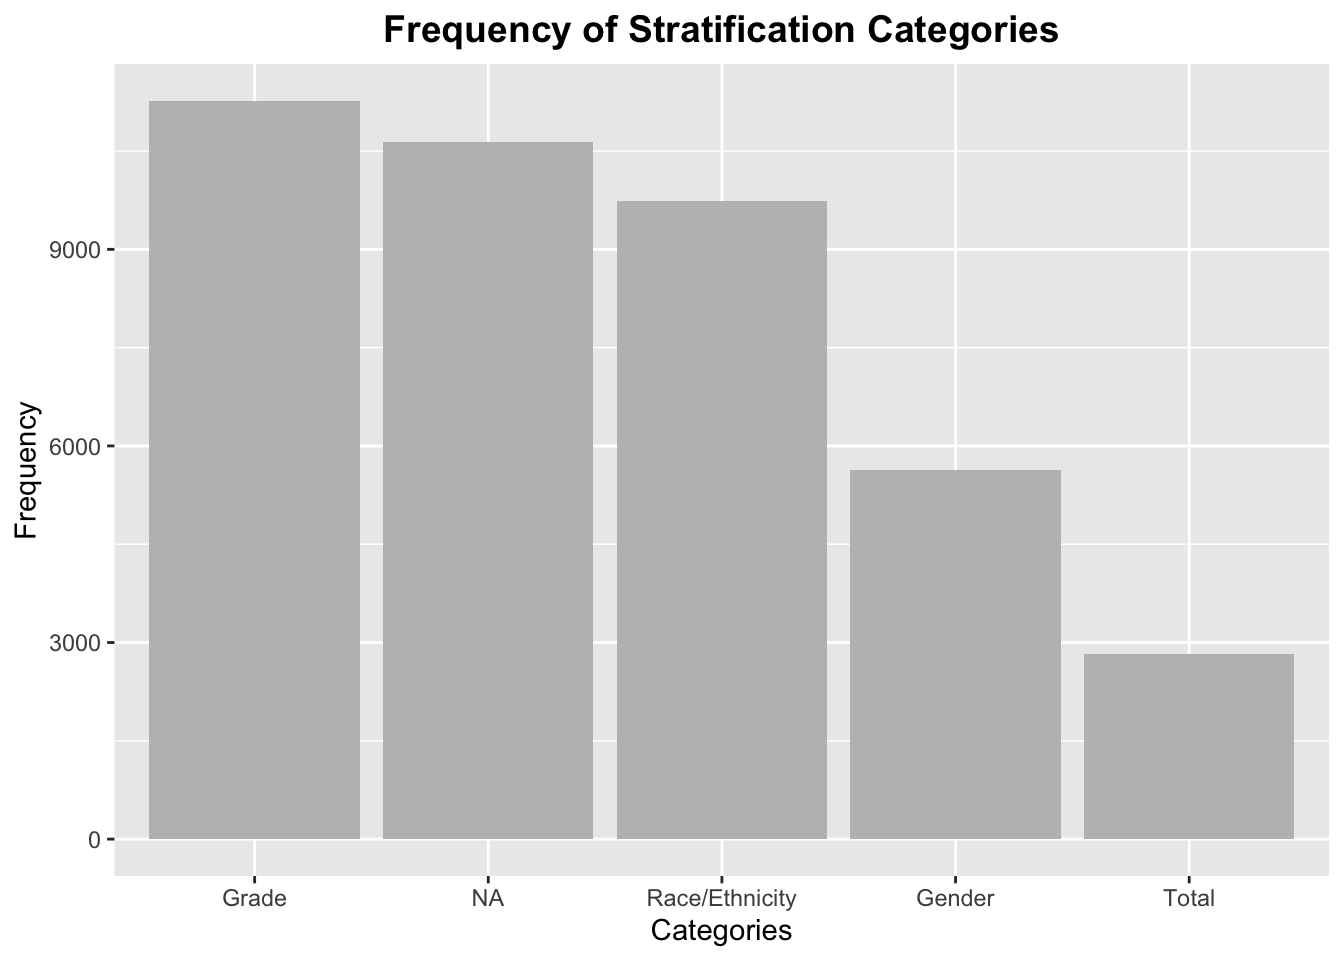
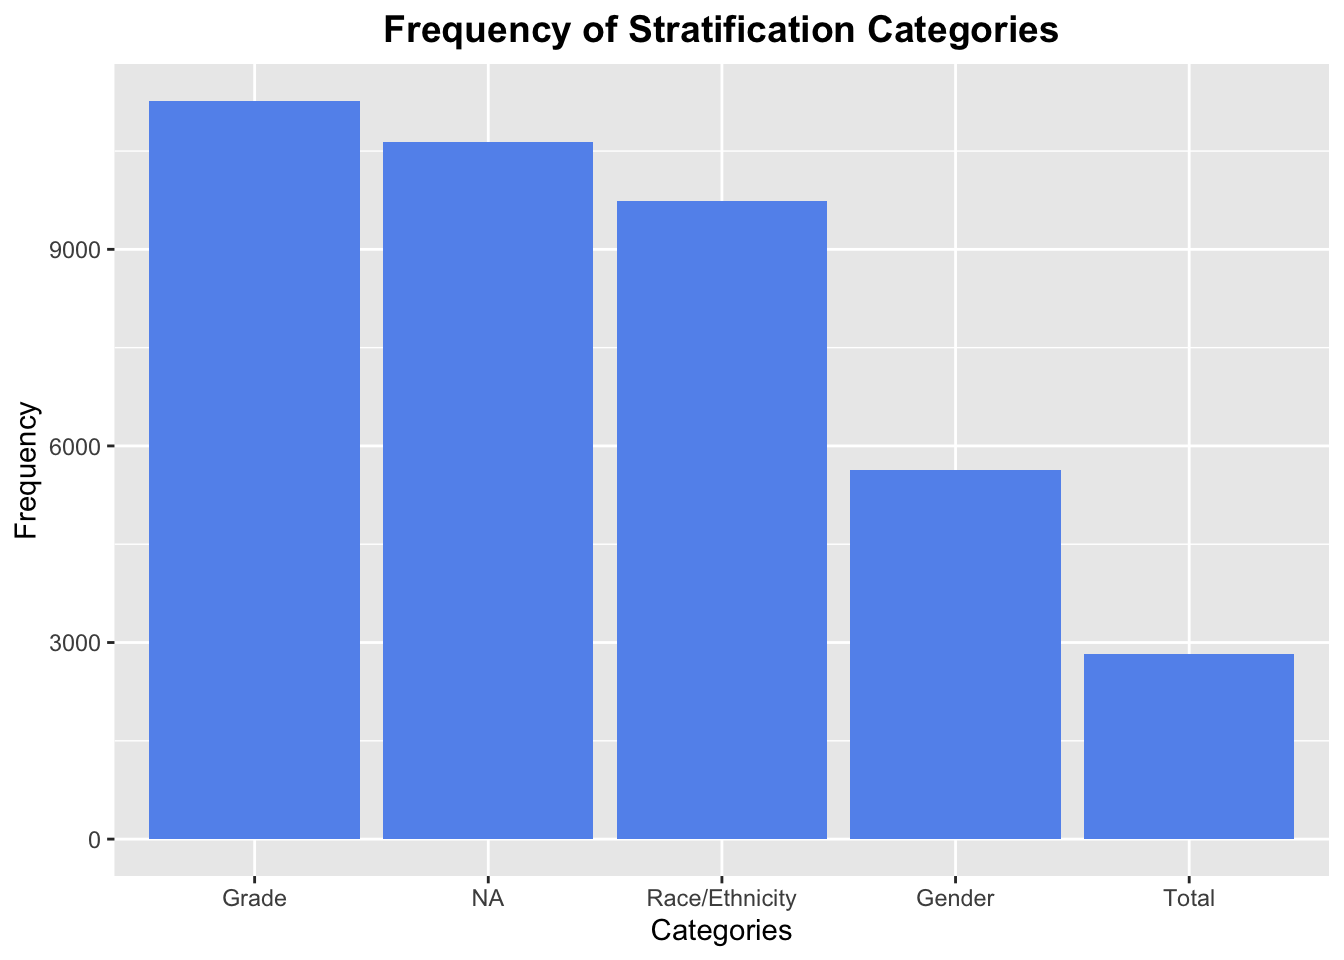
final updates

diff --git a/docs/data.html b/docs/data.html
@@ -235,7 +235,7 @@ pre > code.sourceCode > span > a:first-child::before { text-decoration: underlin
 </section>
 <section id="question-4-location-vs-obesity-rates" class="level3" data-number="2.2.4">
 <h3 data-number="2.2.4" class="anchored" data-anchor-id="question-4-location-vs-obesity-rates"><span class="header-section-number">2.2.4</span> Question 4: Location vs Obesity Rates</h3>
-<p>In this question we will tackle the question of whether geographic locations of residence impact the onset of obesity. We will use the “Class”, “Data_Value”, and “LocationAbbr” columns for this analysis. The “Class” column informs us which health risk category the question pertains to; for this question, we will specifically filter for the “Obesity / Weight Status” class. The “Data_Value” column provides us information on the percentage of students that face the specified health risk. The “LocationAbbr” column contains state name abbreviations where the data samples were taken from; we will group by this column so that we can observe which states have the highest obesity percentages. We will create a bar plot using the “ggplot2” library and plot the state name abbreviations on the x-axis and the obesity percentages on the y-axis. This will allow us to see which state(s) has the highest obesity rate.</p>
+<p>In this question we will tackle the question of whether geographic locations of residence impact the onset of obesity. We will use the “Class”, “Data_Value”, and “LocationAbbr” columns for this analysis. The “Class” column informs us which health risk category the question pertains to; for this question, we will specifically filter for the “Obesity / Weight Status” class. The “Data_Value” column provides us information on the percentage of students that face the specified health risk. The “LocationAbbr” column contains state name abbreviations where the data samples were taken from; we will group by this column so that we can observe which states have the highest obesity percentages. For displaying the data, we will use a Plotly interactive choropleth map of the United states to compare region-based obesity. This will allow us to see which state(s) has the highest obesity rate and draw necessary conclusions.</p>
 </section>
 </section>
 <section id="missing-value-analysis" class="level2" data-number="2.3">
@@ -267,7 +267,7 @@ pre > code.sourceCode > span > a:first-child::before { text-decoration: underlin
 <span id="cb2-4"><a href="#cb2-4" aria-hidden="true" tabindex="-1"></a>data_subset_1 <span class="ot">&lt;-</span> data[data<span class="sc">$</span>Data_Value_Footnote <span class="sc">!=</span> <span class="st">""</span>, ]</span>
 <span id="cb2-5"><a href="#cb2-5" aria-hidden="true" tabindex="-1"></a></span>
 <span id="cb2-6"><a href="#cb2-6" aria-hidden="true" tabindex="-1"></a><span class="fu">ggplot</span>(data, <span class="fu">aes</span>(<span class="at">x=</span><span class="fu">fct_infreq</span>(missing_values))) <span class="sc">+</span></span>
-<span id="cb2-7"><a href="#cb2-7" aria-hidden="true" tabindex="-1"></a>  <span class="fu">geom_bar</span>(<span class="at">fill=</span><span class="st">"gray"</span>) <span class="sc">+</span></span>
+<span id="cb2-7"><a href="#cb2-7" aria-hidden="true" tabindex="-1"></a>  <span class="fu">geom_bar</span>(<span class="at">fill=</span><span class="st">"cornflowerblue"</span>) <span class="sc">+</span></span>
 <span id="cb2-8"><a href="#cb2-8" aria-hidden="true" tabindex="-1"></a>  <span class="fu">labs</span>(<span class="at">title =</span> <span class="st">"Frequency of Stratification Categories"</span>, <span class="at">x =</span> <span class="st">"Categories"</span>, <span class="at">y =</span> <span class="st">"Frequency"</span>) <span class="sc">+</span></span>
 <span id="cb2-9"><a href="#cb2-9" aria-hidden="true" tabindex="-1"></a>  <span class="fu">theme</span>(<span class="at">plot.title =</span> <span class="fu">element_text</span>(<span class="at">hjust =</span> <span class="fl">0.5</span>, <span class="at">color =</span> <span class="st">"black"</span>, <span class="at">size =</span> <span class="dv">14</span>, <span class="at">face =</span> <span class="st">"bold"</span>))</span></code><button title="Copy to Clipboard" class="code-copy-button"><i class="bi"></i></button></pre></div>
 </details>

diff --git a/docs/myscript.js b/docs/myscript.js
@@ -38,7 +38,7 @@ const tvwatching = [
   { x: 2019, y: 17.8}
 ]
 
-// Set up the SVG container
+// make the main SVG container
 const margin = { top: 20, right: 20, bottom: 30, left: 50 };
 const width = 600 - margin.left - margin.right;
 const height = 400 - margin.top - margin.bottom;
@@ -53,18 +53,21 @@ svg.append("text")
 .attr("x", width/2)
 .attr("y", margin.top/2)
 .attr("text-anchor", "middle")
-.text("Physical Health Trends in New York from 2007-2019");
+.text("Health & Obesity Rates from 2007-2019 in New York");
 
-// Create the line
+// reading each x value as a year
+const parseTime = d3.timeParse("%Y");
+
+// create the line
 const line = d3.line()
-  .x(d => xScale(d.x))
+  .x(d => xScale(parseTime(d.x.toString())))
   .y(d => yScale(d.y));
 
-// Create scales
+// create the axes scales
 const min_data = 2005
 const max_data = 2020
 
-const xScale = d3.scaleLinear().domain([min_data, max_data]).range([0, width]);
+const xScale = d3.scaleTime().domain([parseTime(min_data.toString()), parseTime((max_data).toString())]).range([0, width]);
 const yScale = d3.scaleLinear().domain([0, 40]).range([height, 0]);
 
 var obesitypath;
@@ -72,6 +75,7 @@ var physicalpath;
 var sugarpath;
 var tvpath;
 
+// adds/removes the obesity data
 function obesityData() {
 
   if(obesitypath) {
@@ -96,6 +100,7 @@ svg.append("g")
 }
 
 
+// adds/removes the physical activity data
 function physicalData() {
 
   if(physicalpath) {
@@ -120,6 +125,7 @@ function physicalData() {
 
 }
 
+// adds/removes the sugar drinks data
 function sugarData() {
 
   if(sugarpath) {
@@ -143,6 +149,7 @@ function sugarData() {
   }
 }
 
+// adds/removes the tv watching data
 function tvData() {
 
   if(tvpath) {
@@ -171,3 +178,4 @@ function tvData() {
 //https://stackoverflow.com/questions/14221359/toggle-button-for-d3-js
 //https://www.educative.io/answers/how-to-create-a-line-chart-using-d3
 //https://d3-graph-gallery.com/graph/line_basic.html
+//https://tomordonez.com/d3-convert-string-to-date/

diff --git a/myscript.js b/myscript.js
@@ -38,7 +38,7 @@ const tvwatching = [
   { x: 2019, y: 17.8}
 ]
 
-// Set up the SVG container
+// make the main SVG container
 const margin = { top: 20, right: 20, bottom: 30, left: 50 };
 const width = 600 - margin.left - margin.right;
 const height = 400 - margin.top - margin.bottom;
@@ -53,18 +53,21 @@ svg.append("text")
 .attr("x", width/2)
 .attr("y", margin.top/2)
 .attr("text-anchor", "middle")
-.text("Physical Health Trends in New York from 2007-2019");
+.text("Health & Obesity Rates from 2007-2019 in New York");
 
-// Create the line
+// reading each x value as a year
+const parseTime = d3.timeParse("%Y");
+
+// create the line
 const line = d3.line()
-  .x(d => xScale(d.x))
+  .x(d => xScale(parseTime(d.x.toString())))
   .y(d => yScale(d.y));
 
-// Create scales
+// create the axes scales
 const min_data = 2005
 const max_data = 2020
 
-const xScale = d3.scaleLinear().domain([min_data, max_data]).range([0, width]);
+const xScale = d3.scaleTime().domain([parseTime(min_data.toString()), parseTime((max_data).toString())]).range([0, width]);
 const yScale = d3.scaleLinear().domain([0, 40]).range([height, 0]);
 
 var obesitypath;
@@ -72,6 +75,7 @@ var physicalpath;
 var sugarpath;
 var tvpath;
 
+// adds/removes the obesity data
 function obesityData() {
 
   if(obesitypath) {
@@ -96,6 +100,7 @@ svg.append("g")
 }
 
 
+// adds/removes the physical activity data
 function physicalData() {
 
   if(physicalpath) {
@@ -120,6 +125,7 @@ function physicalData() {
 
 }
 
+// adds/removes the sugar drinks data
 function sugarData() {
 
   if(sugarpath) {
@@ -143,6 +149,7 @@ function sugarData() {
   }
 }
 
+// adds/removes the tv watching data
 function tvData() {
 
   if(tvpath) {
@@ -171,3 +178,4 @@ function tvData() {
 //https://stackoverflow.com/questions/14221359/toggle-button-for-d3-js
 //https://www.educative.io/answers/how-to-create-a-line-chart-using-d3
 //https://d3-graph-gallery.com/graph/line_basic.html
+//https://tomordonez.com/d3-convert-string-to-date/

diff --git a/docs/d3graph.html b/docs/d3graph.html
@@ -159,7 +159,7 @@ ul.task-list li input[type="checkbox"] {
 
 </header>
 
-<p>The interactive graph below is intended to show time-series data for obesity-linked factors from 2007-2019. Clicking on each factor button will add a line indicating its average percentage across all surveyed NY adolescents within the aforementioned time span. Clicking the same button again will remove that line, as to allow for selectivity simultaneously viewed factors.</p>
+<p>The interactive graph below is intended to show time-series data for obesity-linked factors for adolescents in New York from 2007-2019. Clicking on each factor button will add a line indicating its average percentage across all surveyed NY adolescents within the aforementioned time span. Clicking the same button again will remove that line, as to allow for selectivity simultaneously viewed factors.</p>
 <script src="https://d3js.org/d3.v7.min.js"></script>
 <div id="plot">
 
@@ -178,7 +178,7 @@ TV Watching
 </button>
 <script src="myscript.js"></script>
 <p><br></p>
-<p>As seen from the results above, the obesity rate has only slightly increased from 2007 to 2019, while the rate of daily sugary drinks consumption and TV-watching has decreased. Daily physical activity rates also increased slightly between 2010-2014 but then decreased again to around 20%.</p>
+<p>As seen from the results above, the obesity rate has only slightly increased from 2007 to 2019, while the rate of daily sugary drinks consumption and TV-watching has decreased. Daily physical activity rates also increased slightly between 2010-2014 but then decreased again to around 20%. These results from New York alone support some of the previous findings, in that improvement in selected lifestyle choices didn’t necessarily impact obesity rates.</p>
 
 
 
